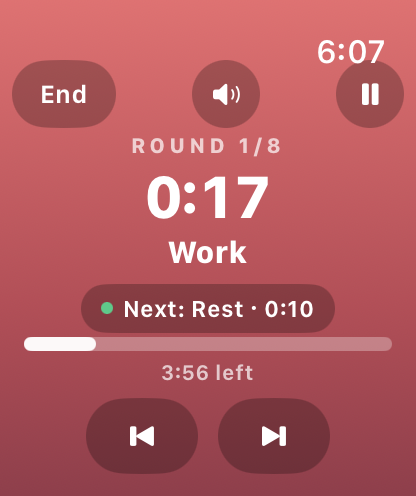
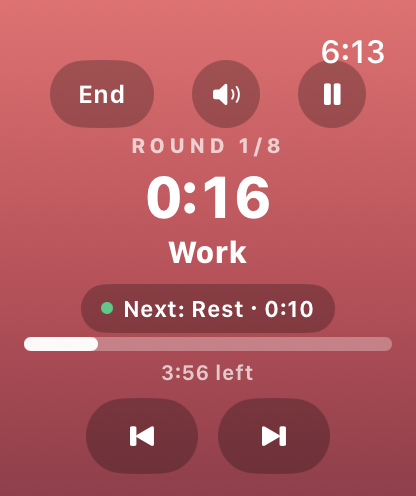
style(watch): halve the gap between the run screen's top controls
A spacer at each end as well as between the buttons, so the free width
splits four ways instead of two: the gaps drop from 40pt to 20pt on a 46mm
face (24pt to 12pt on 41mm) and the trio stays centred.

Build 19; watch run screenshot recaptured.

diff --git a/IntervalTimerWatch/Views/WatchRunView.swift b/IntervalTimerWatch/Views/WatchRunView.swift
@@ -75,16 +75,18 @@ struct WatchRunView: View {
         let next = segments.indices.contains(engine.index + 1) ? segments[engine.index + 1] : nil
 
         return VStack(spacing: 0) {
-            // Spread across the full width: mistaps are easy on a wrist, and the
-            // three targets sat shoulder to shoulder in the middle before.
+            // Four equal spacers: the free width splits into two margins and two
+            // gaps, so the trio stays centred and the gaps are half what pushing
+            // the buttons to the edges gave — spread enough to be hard to mistap.
             HStack(spacing: 0) {
+                Spacer(minLength: 3)
                 Button { showEndConfirm = true } label: {
                     Text("End").font(.system(size: 13, weight: .semibold))
                         .foregroundStyle(.white)
                         .padding(.horizontal, 14).frame(height: 34)
                         .background(Capsule().fill(.black.opacity(0.25)))
                 }
-                Spacer(minLength: 6)
+                Spacer(minLength: 3)
                 Button { settings.soundEnabled.toggle() } label: {
                     Image(systemName: settings.soundEnabled ? "speaker.wave.2.fill" : "speaker.slash.fill")
                         .font(.system(size: 13))
@@ -92,7 +94,7 @@ struct WatchRunView: View {
                         .frame(width: 34, height: 34)
                         .background(Circle().fill(.black.opacity(0.25)))
                 }
-                Spacer(minLength: 6)
+                Spacer(minLength: 3)
                 Button { togglePause() } label: {
                     Image(systemName: paused ? "play.fill" : "pause.fill")
                         .font(.system(size: 13, weight: .bold))
@@ -100,6 +102,7 @@ struct WatchRunView: View {
                         .frame(width: 34, height: 34)
                         .background(Circle().fill(.black.opacity(0.25)))
                 }
+                Spacer(minLength: 3)
             }
             .buttonStyle(.plain)
 

diff --git a/docs/app-store-connect-info.md b/docs/app-store-connect-info.md
@@ -14,7 +14,7 @@ Everything needed to fill out the App Store Connect listing for Interval Pulse T
 | Secondary Category | Sports (optional) |
 | Team / Apple Developer | DZRPJF9JB6 |
 | Version (Marketing) | 1.7 |
-| Build number | 18 |
+| Build number | 19 |
 | Price | Free (or your choice) |
 | Copyright | © 2026 Norman Hoang |
 
